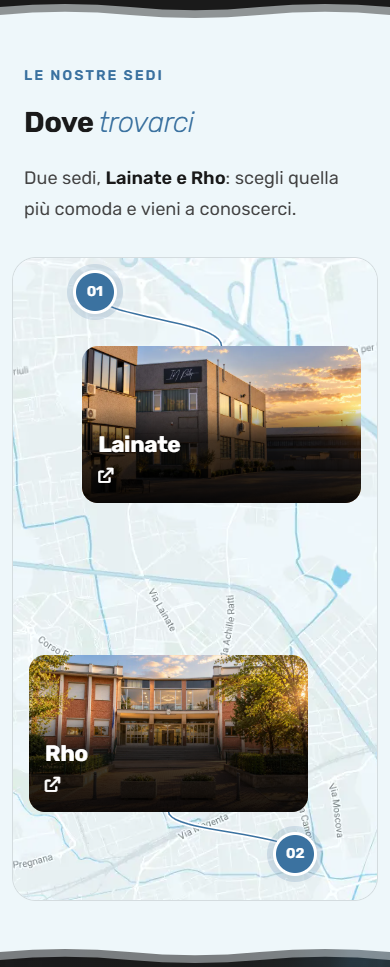
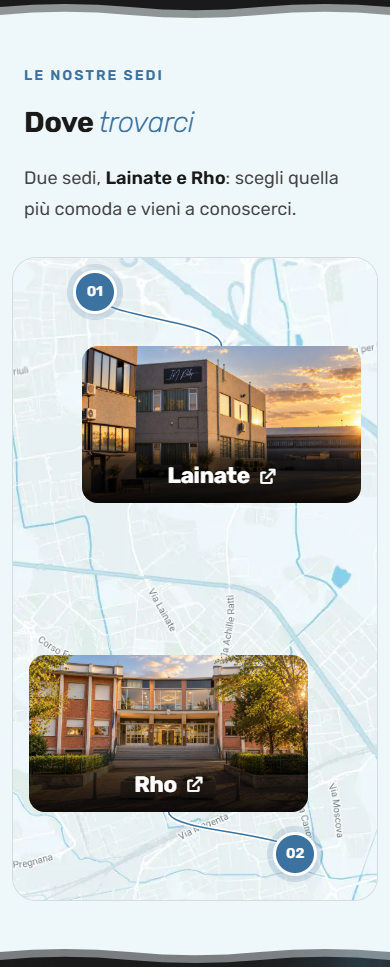
update

Changed region(s): [[0.1846, 0.4033, 0.9231, 0.5274], [0.0615, 0.7446, 0.8, 0.8376]]

diff --git a/src/styles/pages/corsi.css b/src/styles/pages/corsi.css
@@ -362,13 +362,13 @@
   outline-offset: 3px;
 }
 
-/* Desktop: ogni percorso si apre in un ventaglio di vere pagine corso.
+/* Desktop: card allineate, con foto e dettagli di ogni sottocorso.
    Le schede restano link nativi, leggibili e utilizzabili anche senza JavaScript. */
 @media (min-width: 901px) {
   .categoria,
   .categoria:nth-of-type(even) {
     display: block;
-    padding: 5rem 0 6.5rem;
+    padding: 5rem 0;
   }
 
   .categoria-foto {
@@ -389,39 +389,33 @@
   }
 
   .corsi-lista {
-    position: relative;
-    isolation: isolate;
-    display: flex;
-    justify-content: center;
+    display: grid;
+    grid-template-columns: repeat(3, minmax(0, 1fr));
     align-items: stretch;
-    gap: 1rem;
-    max-width: 68rem;
-    margin: 4rem auto 0;
-    padding: 0 1.5rem 2rem;
+    gap: 2rem 1.5rem;
+    margin: 3rem auto 0;
+    padding: 0;
     border: 0;
   }
 
   .corsi-lista li {
-    position: relative;
     display: flex;
-    flex: 1 1 0;
+    grid-row: auto;
     min-width: 0;
-    max-width: 16rem;
+    max-width: none;
     border: 0;
-    transform: translateY(var(--ventaglio-discesa)) rotate(var(--ventaglio-angolo));
-    transform-origin: 50% 90%;
-    transition: transform .4s cubic-bezier(.2, .7, .2, 1);
   }
 
   .corso-voce {
     display: flex;
     flex-direction: column;
     width: 100%;
-    padding: .45rem;
+    padding: 0;
+    overflow: hidden;
     border: 1px solid var(--linea);
     border-radius: var(--radius-card);
     background: var(--white);
-    box-shadow: 0 10px 28px rgb(var(--navy-rgb) / .09);
+    box-shadow: var(--shadow-card);
     text-align: left;
     transition: box-shadow .4s ease, border-color .3s ease;
   }
@@ -429,8 +423,8 @@
   .corso-foto {
     display: block;
     overflow: hidden;
-    aspect-ratio: 5 / 6;
-    border-radius: calc(var(--radius-card) - .45rem);
+    flex-shrink: 0;
+    aspect-ratio: 4 / 3;
     background: var(--bg-soft);
   }
 
@@ -447,7 +441,7 @@
     flex: 1;
     flex-direction: column;
     align-items: flex-start;
-    padding: 1.1rem .65rem .85rem;
+    padding: 1.5rem;
   }
 
   .corso-nome {
@@ -464,11 +458,6 @@
     padding-top: 1.2rem;
   }
 
-  .corsi-lista li:focus-within {
-    z-index: 2;
-    transform: translateY(-1rem) rotate(0deg);
-  }
-
   .corso-voce:focus-visible {
     outline-offset: 5px;
     border-color: var(--primary-blue-dark);
@@ -477,11 +466,6 @@
 }
 
 @media (min-width: 901px) and (hover: hover) and (pointer: fine) {
-  .corsi-lista li:hover {
-    z-index: 2;
-    transform: translateY(-1rem) rotate(0deg);
-  }
-
   .corso-voce:hover {
     border-color: var(--primary-blue-dark);
     box-shadow: 0 20px 40px rgb(var(--navy-rgb) / .16);
@@ -493,7 +477,6 @@
 }
 
 @media (prefers-reduced-motion: reduce) {
-  .corsi-lista li,
   .corso-voce,
   .corso-foto img {
     transition: none;

diff --git a/src/styles/components/sedi-mappa.css b/src/styles/components/sedi-mappa.css
@@ -267,6 +267,13 @@
     color: var(--white);
   }
 
+  .sedi-mappa-dettaglio {
+    display: flex;
+    align-items: center;
+    justify-content: center;
+    gap: .65rem;
+  }
+
   .sedi-mappa-numero {
     display: none;
   }
@@ -277,7 +284,8 @@
 
   .sedi-mappa-azione {
     min-height: 24px;
-    margin-top: .25rem;
+    margin-top: 0;
+    flex-shrink: 0;
     color: var(--white);
     font-size: var(--text-base);
   }

diff --git a/output/sedi/README.md b/output/sedi/README.md
@@ -5,7 +5,7 @@
 - `georeferenziazione-v3.json`: registrazione del nuovo screenshot 1111 × 852 a zoom 14.
 - `georeferenziazione.json` e `georeferenziazione-v2.json`: registrazioni precedenti conservate per tracciabilità.
 
-Il sito usa l'ultimo screenshot fornito dall'utente. Su desktop Lainate è a sinistra, Rho a destra e la mappa al centro. Su mobile una sola cornice contiene la mappa continua e due foto più compatte, senza struttura bianca da card. Città e icona esterna sono dentro ciascuna immagine, su un gradiente scuro; i numeri interni e «Vedi di più» sono nascosti solo su mobile. La cartografia occupa più della metà della composizione. I pallini geografici rimangono di 56 px. Foto e segnaposto aprono Google Maps.
+Il sito usa l'ultimo screenshot fornito dall'utente. Su desktop Lainate è a sinistra, Rho a destra e la mappa al centro. Su mobile una sola cornice contiene la mappa continua e due foto più compatte, senza struttura bianca da card. Città e icona esterna sono affiancate e centrate sulla stessa riga dentro ciascuna immagine, su un gradiente scuro; i numeri interni e «Vedi di più» sono nascosti solo su mobile. La cartografia occupa più della metà della composizione. I pallini geografici rimangono di 56 px. Foto e segnaposto aprono Google Maps.
 
 I segnaposto sono figli della cartografia e seguono le percentuali dell'immagine: il ritaglio mobile non ne altera le coordinate. La scala e il ritaglio vengono adattati alle dimensioni delle card: i due punti occupano le fasce libere sopra e sotto le foto, sempre sugli stessi luoghi. I collegamenti SVG si aggiornano sulle posizioni reali tramite `ResizeObserver`, anche dopo resize e caricamento dei font.
 
